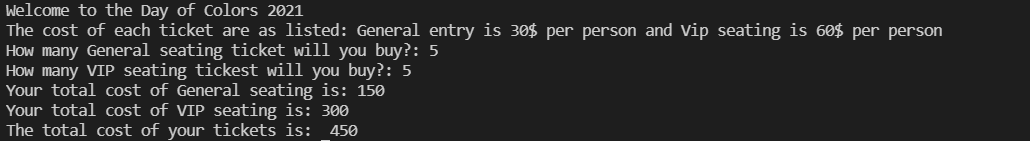
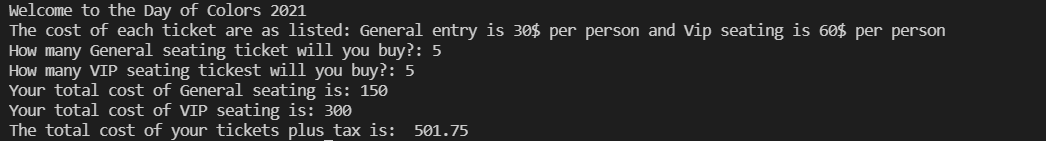
Ticketera con bono

diff --git a/Modules/Module4/joaquin-negron-ticketera.py b/Modules/Module4/joaquin-negron-ticketera.py
@@ -4,4 +4,4 @@ genSeat = int(input('How many General seating ticket will you buy?: '))
 vipSeat = int(input('How many VIP seating tickest will you buy?: '))
 print('Your total cost of General seating is:', genSeat * 30)
 print('Your total cost of VIP seating is:', vipSeat * 60)
-print('The total cost of your tickets is: ', genSeat * 30 + vipSeat * 60)
+print('The total cost of your tickets plus tax is: ', genSeat * 30 * 1.115 + vipSeat * 60 * 1.115)
